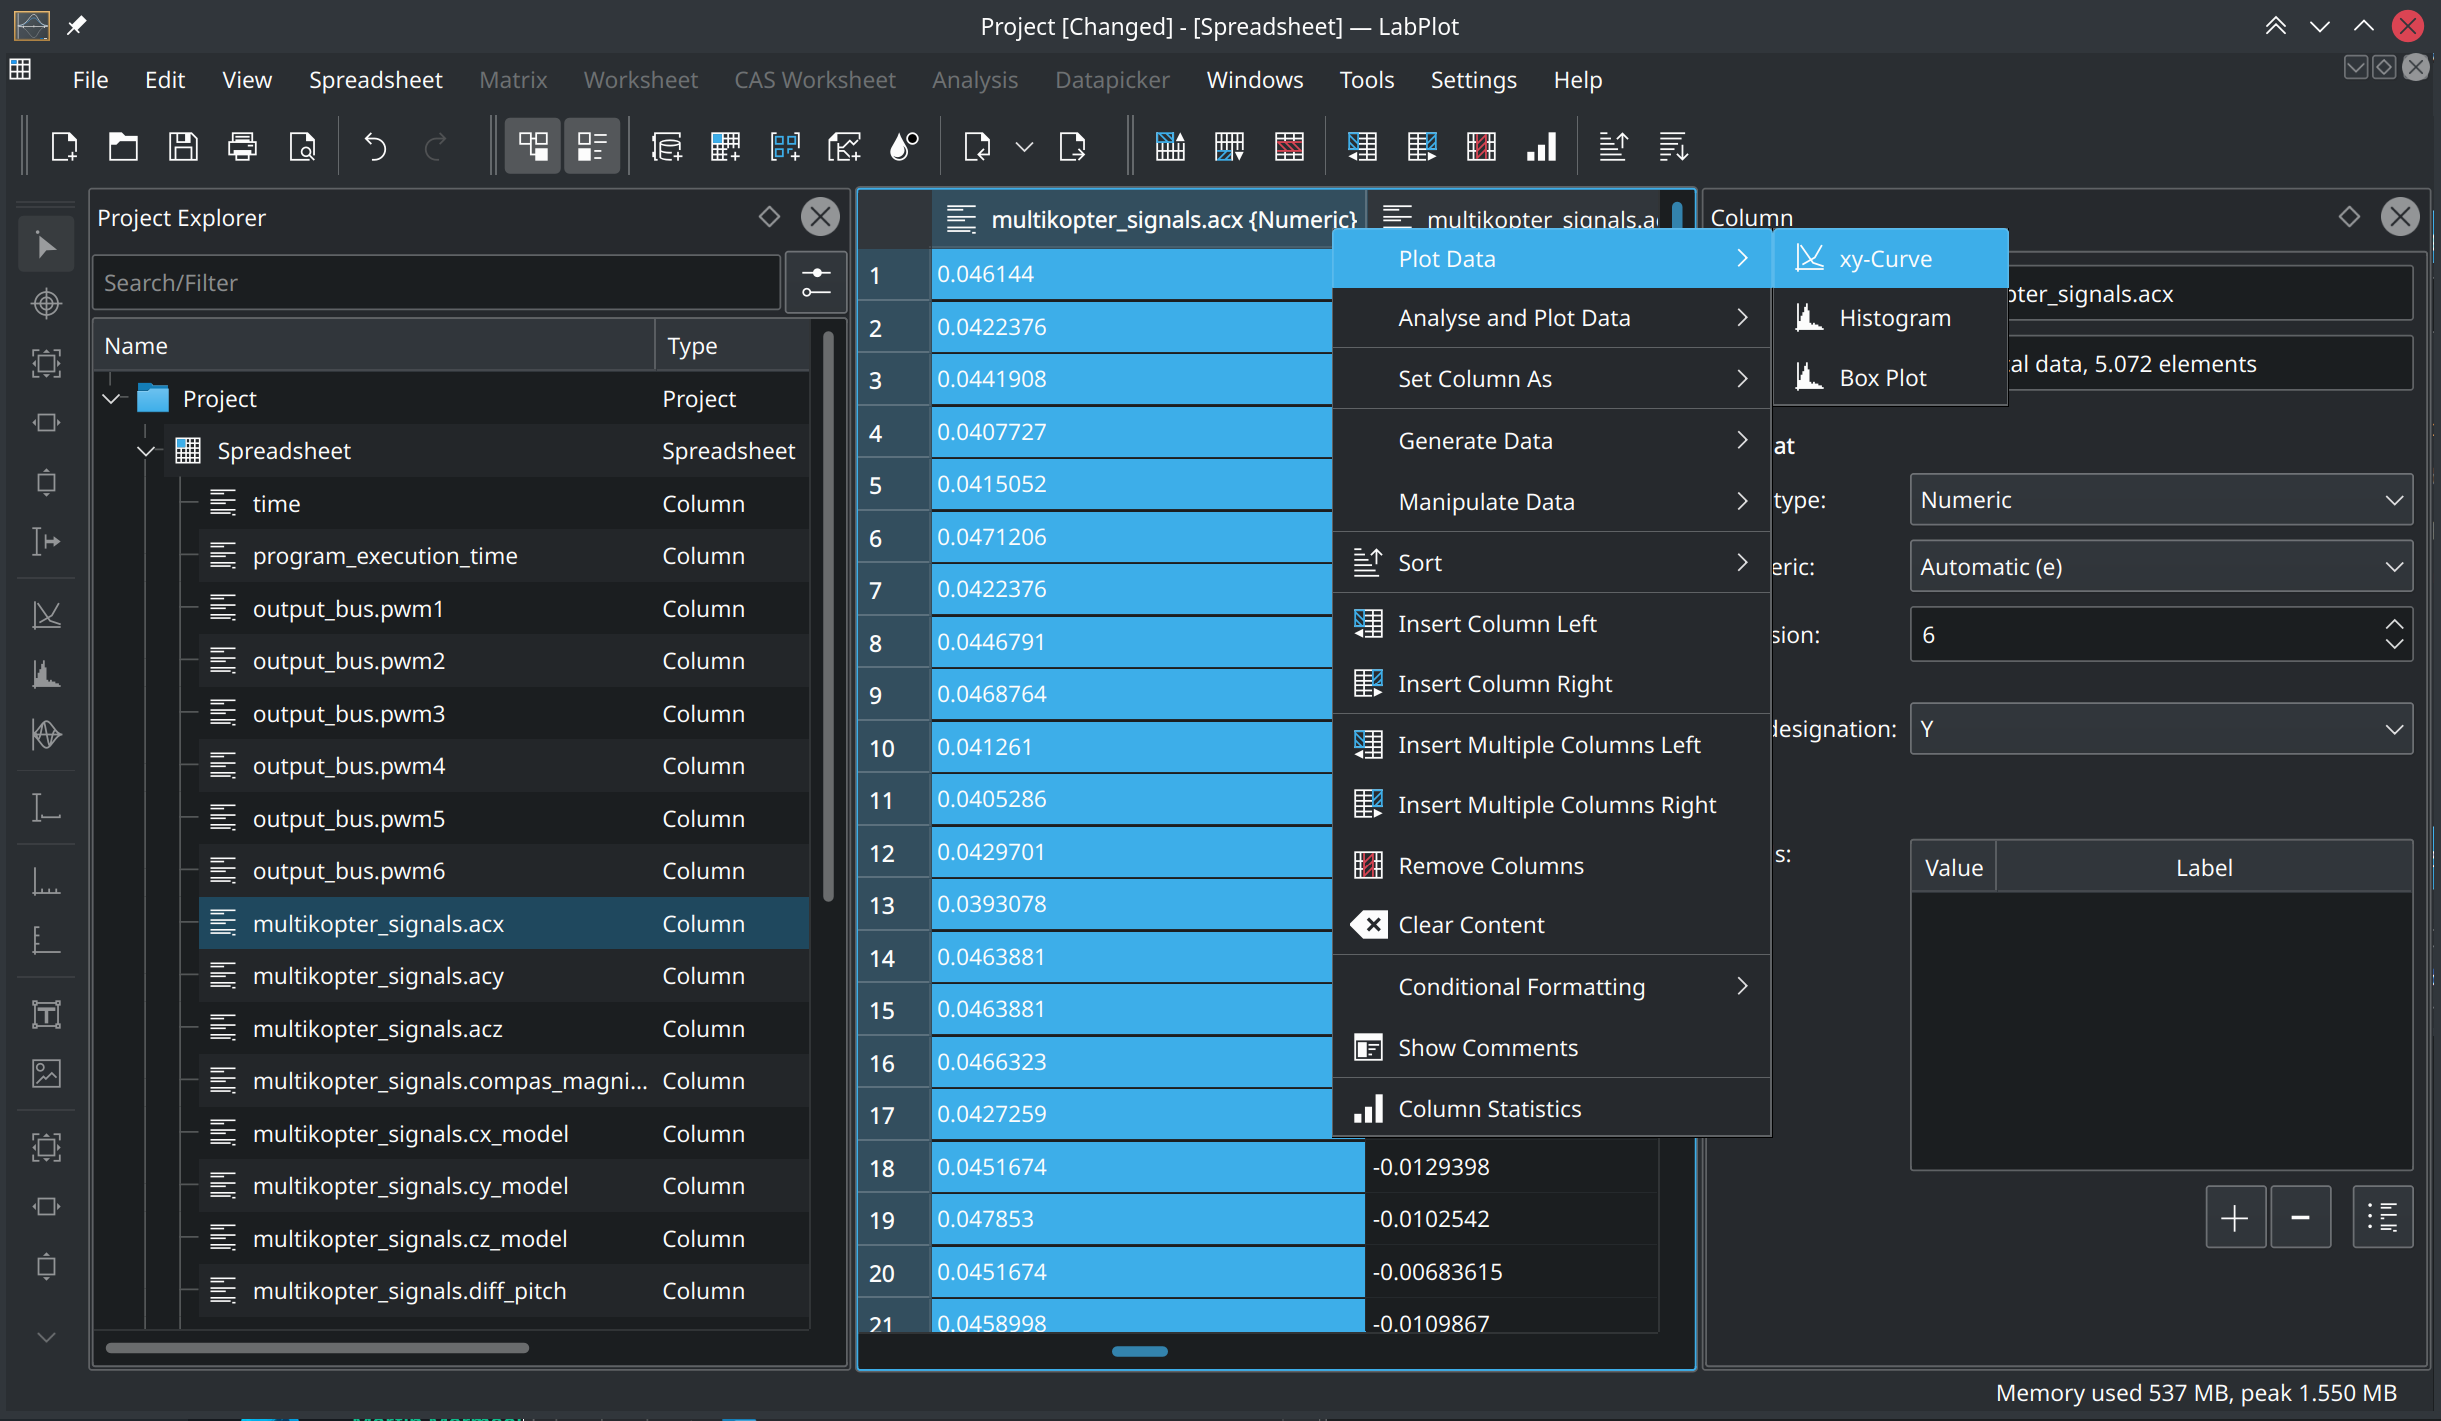
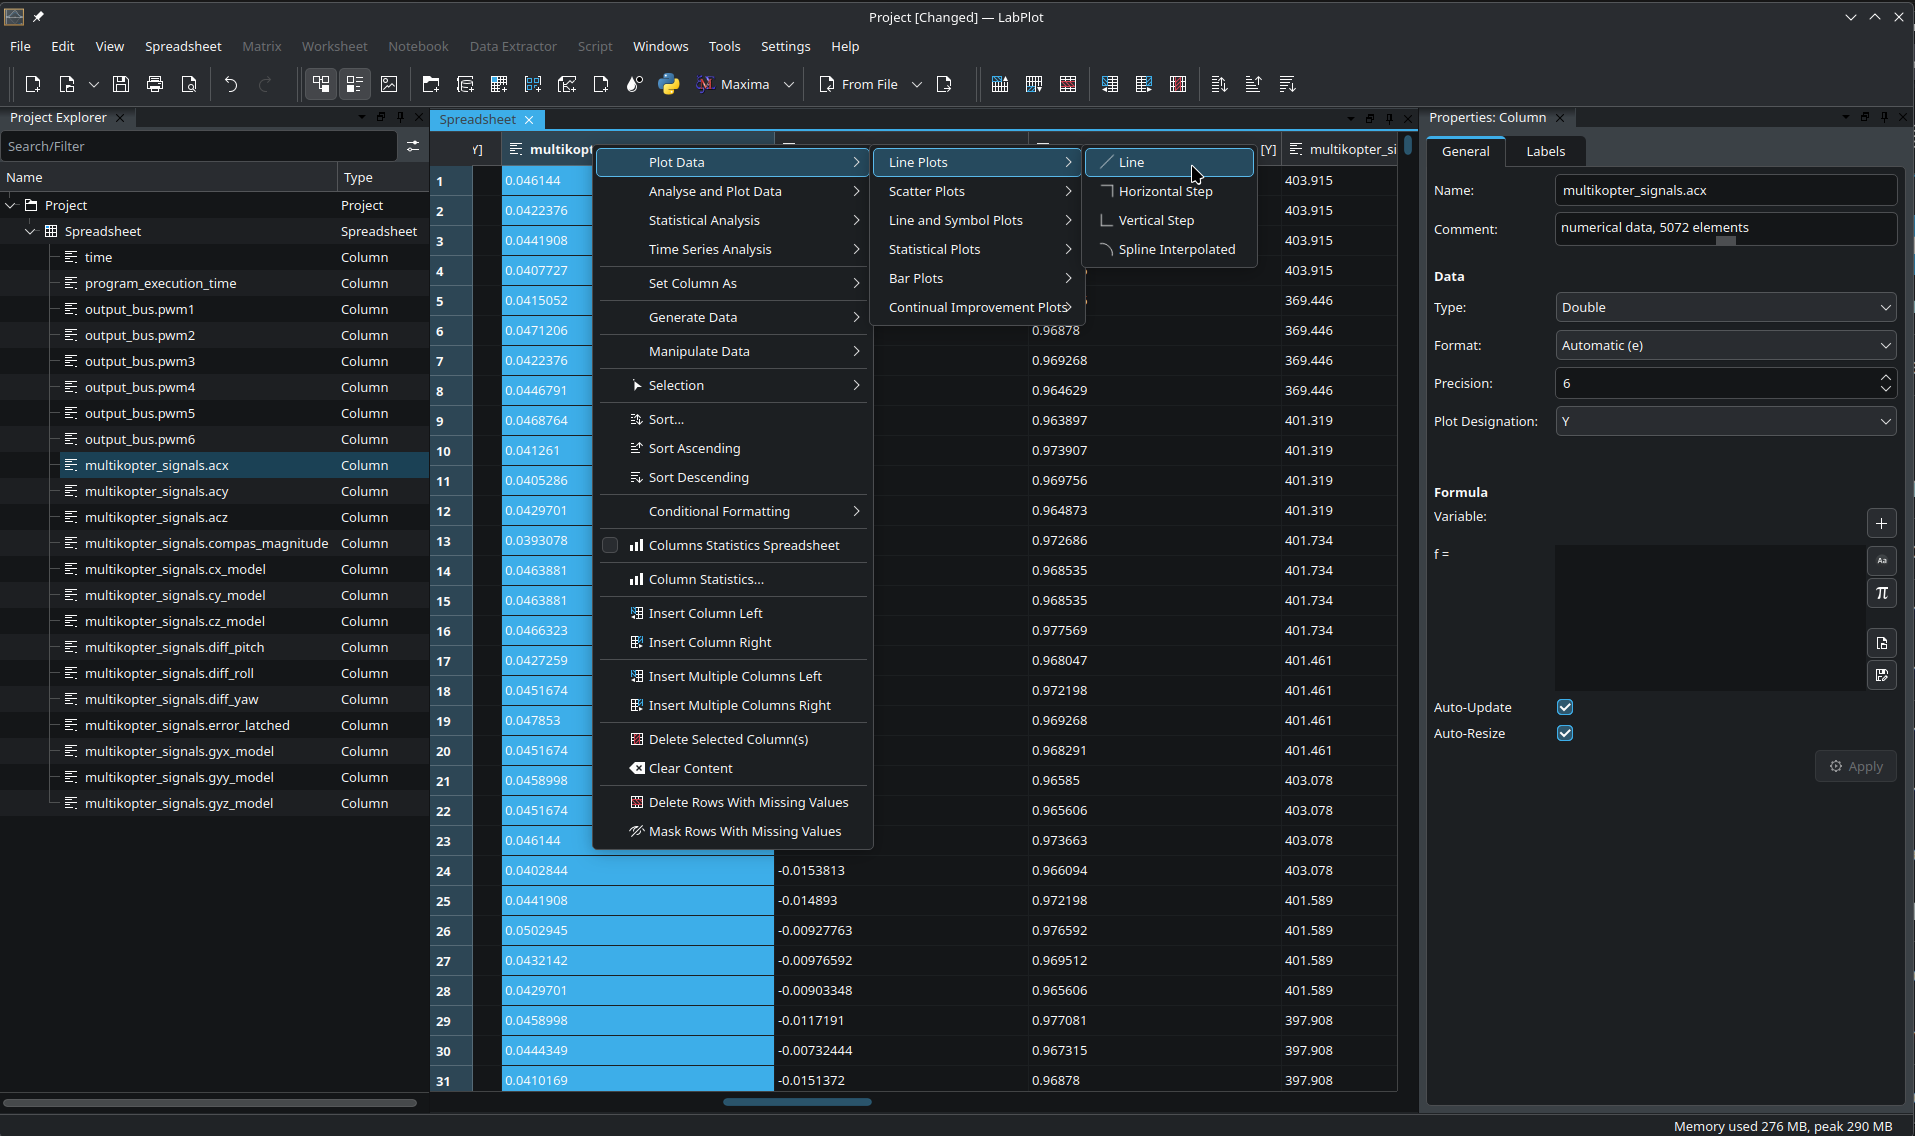
Updated the plot data screenshot to show all available plot sub-types and a bit more explanations for NSL.

diff --git a/source/getting_started/quick_start.rst b/source/getting_started/quick_start.rst
@@ -65,14 +65,14 @@ In the `Import Data` dialog box that will appear, specify the location of the fi
 .. figure:: images/LabPlot_Getting_Started_Import_Dialog.png
     :alt:
     :align: center
-    :width: 650px
+    :width: 450px
 
 Navigate to the `Preview` tab in this dialog box to check whether the structure of the data will be properly read with the current settings.
 
 .. figure:: images/LabPlot_Getting_Started_Import_Dialog_Preview.png
     :alt:
     :align: center
-    :width: 650px
+    :width: 450px
 
 Click the :guilabel:`OK` button to import the data into the :ref:`data_containers_spreadsheet`. After the import, you'll see it in the :ref:`data_containers_spreadsheet`.
 
@@ -96,7 +96,7 @@ The `Plot Spreadsheet Data` dialog box will appear.
 .. figure:: images/LabPlot_Getting_Started_Plot_Data_Dialog.png
     :alt:
     :align: center
-    :width: 650px
+    :width: 450px
 
 LabPlot automatically assigned the "Time" column to the X-axis. We keep all the other settings as shown below in order to visualize the data in a new `plot` on a new 'Worksheet'.
 
@@ -115,4 +115,4 @@ To export the `plot` as an image, choose :menuselection:`Export` from the main m
 .. figure:: images/LabPlot_Getting_Started_Export_Dialog.png
     :alt:
     :align: center
-    :width: 650px
+    :width: 450px

diff --git a/source/sdk/cpp/api/nsl.rst b/source/sdk/cpp/api/nsl.rst
@@ -1,7 +1,8 @@
 NSL
 ======
 
-NSL is a collection of algorithms.
+Numerical and Statistical Library (NSL) is a collection of numerical and statistical functions extending the GNU Scientific library (GSL). NSL is currently part of LabPlot but may be a separate library in the future if the API is not changing anymore. NSL is written in plain C.
+
 
 .. toctree::
    :maxdepth: 1